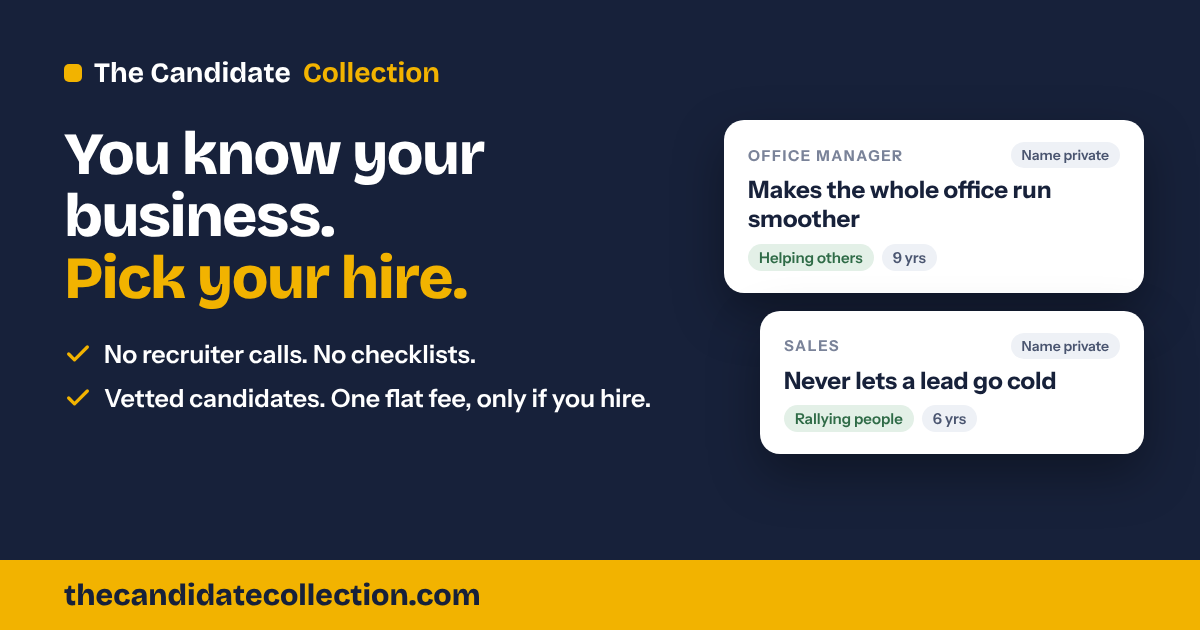
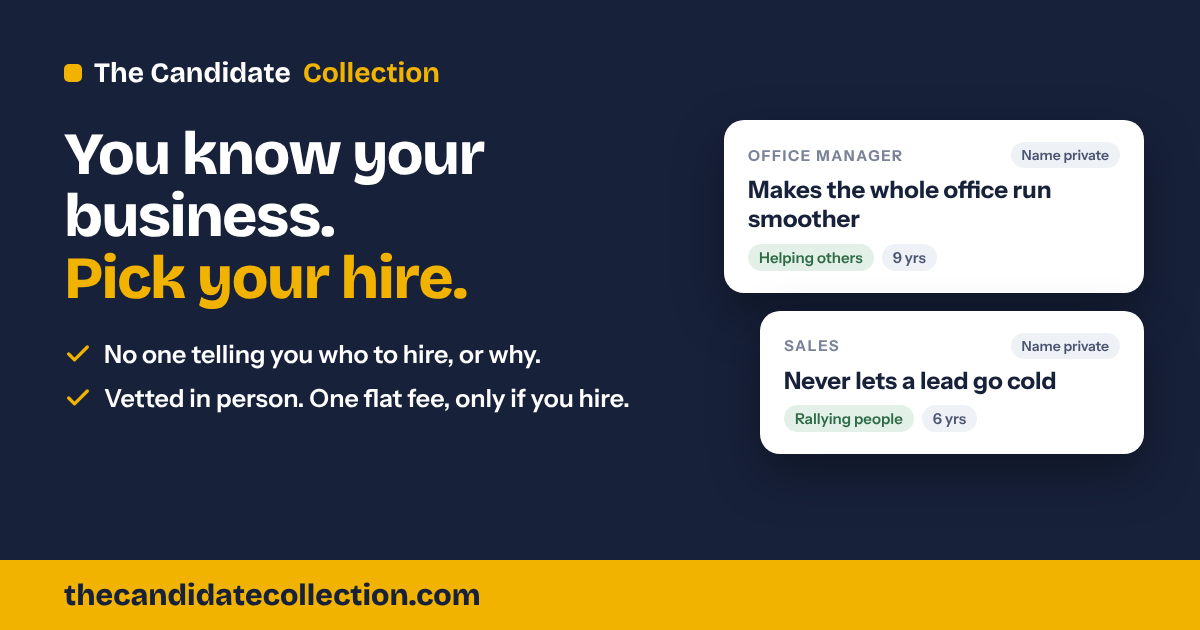
Owner teaser: no one telling you how to run your business, who to hire, or why
Claude-Session: https://claude.ai/code/session_01EZeEyNzeQFPN4DFsUvzuMe

Changed region(s): [[0.1233, 0.5429, 0.555, 0.6635]]

diff --git a/src/lib/shareKit.ts b/src/lib/shareKit.ts
@@ -20,7 +20,7 @@ export function shareLink(ref?: string | null) {
 }
 
 export function ownerMessage(link: string) {
-  return `Business owner? You know what you need. Skip the recruiter calls, the checklists, and the person explaining your own business to you.\n\nBrowse candidates we've already vetted in person, beginner to seasoned. Pick the one you want and hire them. Free to browse, one flat fee only if you hire.\n\n${link}`;
+  return `Business owner? You built your business. You don't need anyone telling you how to run it, who to hire, or why.\n\nBrowse candidates we've already vetted in person. See exactly what each one brings. Pick the one you want and hire them. That's it.\n\nFree to browse. One flat fee, only if you hire.\n${link}`;
 }
 
 // A new owner who came through someone's link: remember who sent them.

diff --git a/src/app/layout.tsx b/src/app/layout.tsx
@@ -20,7 +20,7 @@ export const metadata: Metadata = {
     type: "website",
     siteName: brandName(),
     title: "You know your business. Pick your hire.",
-    description: "No recruiter calls, no checklists. Candidates already vetted in person. Free to browse, one flat fee only if you hire.",
+    description: "No one telling you how to run your business, who to hire, or why. Candidates vetted in person. Free to browse, one flat fee only if you hire.",
     images: [{ url: "/share/og.png", width: 1200, height: 630, alt: "The Candidate Collection: you know your business, pick your hire" }],
   },
   twitter: { card: "summary_large_image", images: ["/share/og.png"] },
